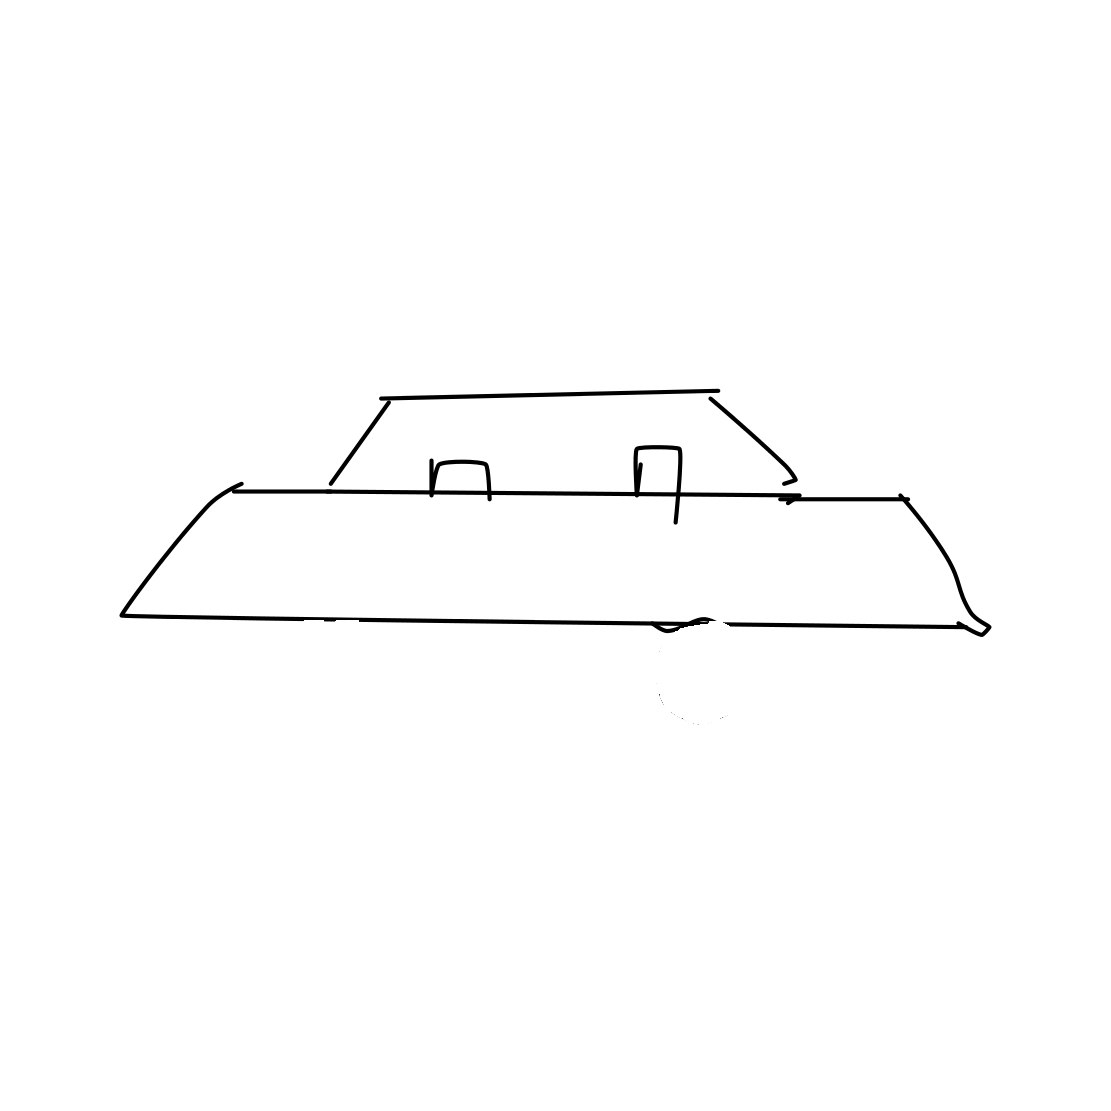
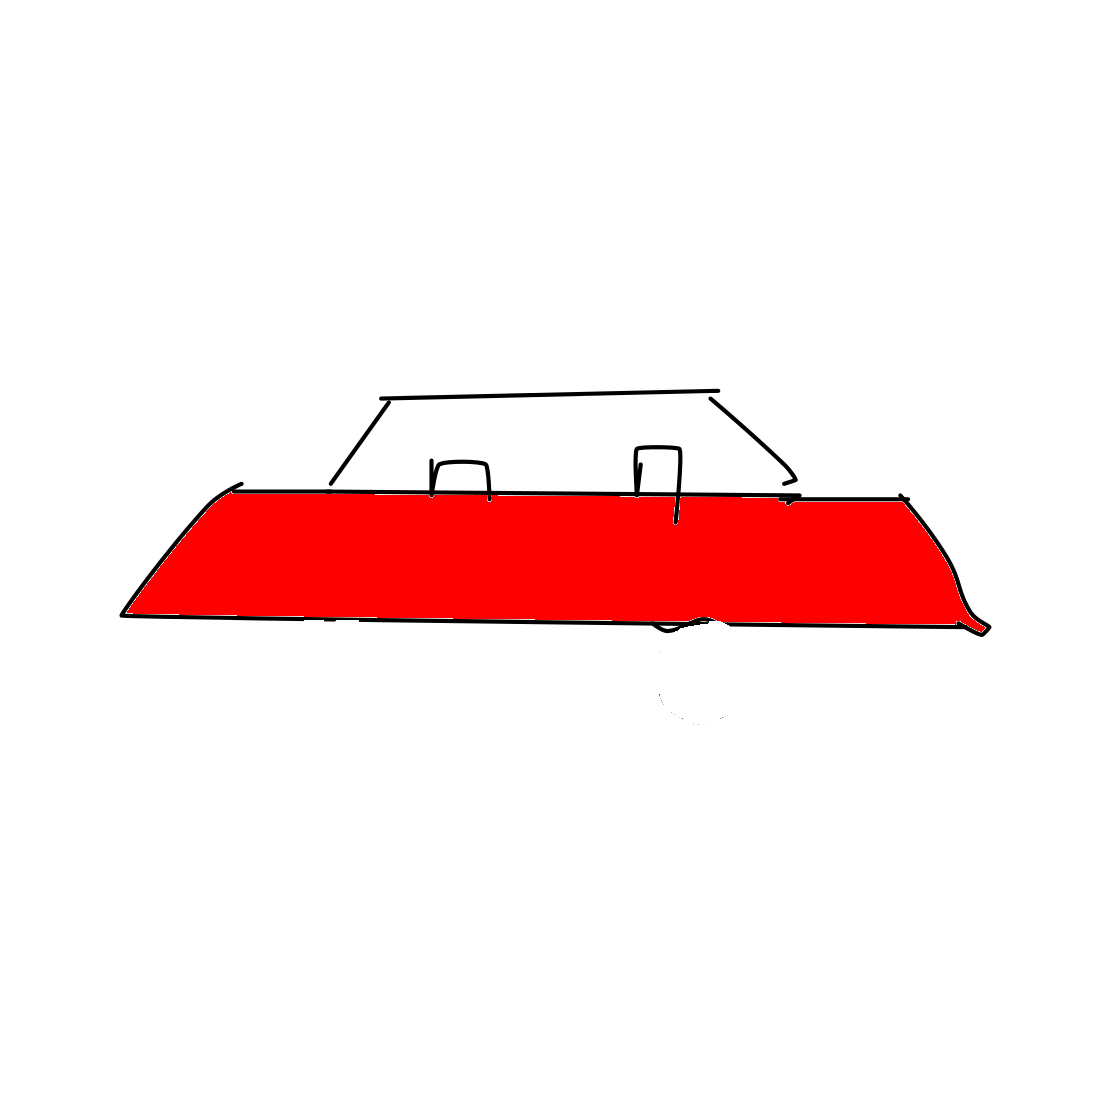
Paint wheels and body

Changed region(s): [[0.1224, 0.4284, 0.8875, 0.5815]]

diff --git a/circle_detect2.py b/circle_detect2.py
@@ -4,6 +4,15 @@ import argparse
 import cv2
 import os
 
+# opencv uses BGR
+wheel_color = (171, 186, 211)[::-1]
+body_color = (255, 0, 0)[::-1]
+
+
+def contour_center(contour):
+    M2 = cv2.moments(contour)
+    return (int(M2["m10"] / M2["m00"]), int(M2["m01"] / M2["m00"]))
+
 
 def resize_contour(contour, factor):
     M = cv2.moments(contour)
@@ -42,6 +51,9 @@ def fill(img, contour, color):
 
 
 def crop(image, contour, output_fname):
+    # paint wheel
+    flood_fill(image, contour_center(contour), wheel_color)
+
     image = add_alpha(image)
     mask = np.zeros(image.shape, dtype=np.uint8)
 
@@ -57,6 +69,11 @@ def crop(image, contour, output_fname):
     cv2.imwrite(output_fname, masked_image)
 
 
+def flood_fill(img, seed, color):
+    blank_image = np.zeros((img.shape[0] + 2, img.shape[1] + 2), dtype=np.uint8)
+    cv2.floodFill(img, blank_image, seed, color)
+
+
 def extract_wheels(image, circles):
     image = image.copy()
     # ensure at least some circles were found
@@ -66,6 +83,8 @@ def extract_wheels(image, circles):
         contour_list = []
         radius = max(int(circles[0][2] * 2), int(circles[1][2] * 1.3))
         cropped_images = []
+        centers = []
+        approxims = []
         # loop over the (x, y) coordinates and radius of the circles
         for j, (x, y, r) in enumerate(circles):
             # crop image
@@ -96,7 +115,23 @@ def extract_wheels(image, circles):
             for i in range(approx.shape[0]):
                 approx[i, 0, 0] += x - radius
                 approx[i, 0, 1] += y - radius
-            fill(image, approx, (255, 255, 255))
+            # fill(image, approx, (255, 255, 255))
+            center = contour_center(approx)
+            centers.append(center)
+
+            approxims.append(approx)
+
+        # paint car body
+        # estimate body center position based on wheel proportions
+        x_dist = abs(centers[0][0] - centers[1][0])
+        x_avg = centers[0][0] / 2 + centers[1][0] / 2
+        y_avg = centers[0][1] / 2 + centers[1][1] / 2
+        body_center = (x_avg, int(y_avg - x_dist * 0.3))
+        flood_fill(image, body_center, body_color)
+
+        # remove wheels from car
+        fill(image, approxims[0], (255, 255, 255))
+        fill(image, approxims[1], (255, 255, 255))
 
     cv2.imwrite('car_without_wheels.png', image)
 
